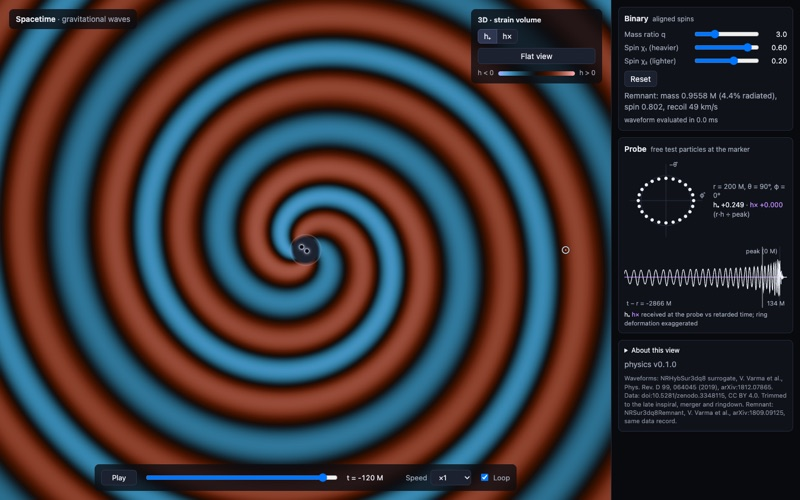
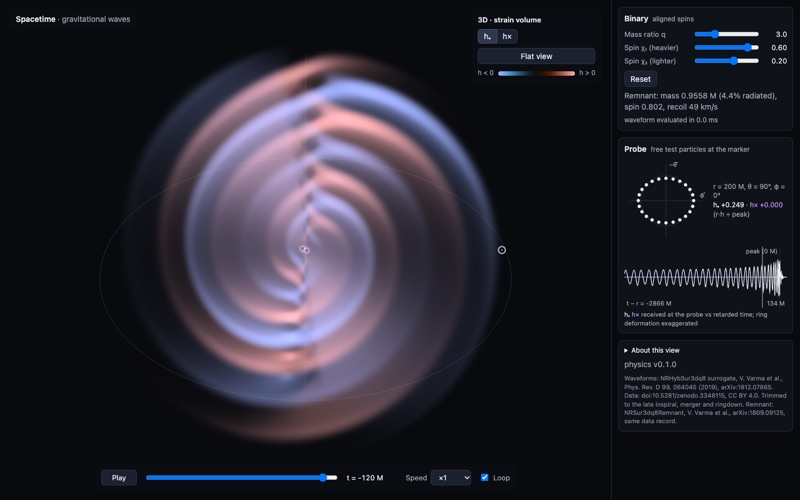
Lensing starts at 40 M (was 20 M); README 3D screenshot fixed
- Default camera distance 40 M, also used by double-click reset. The
  shadow, Einstein ring and more of the sky fit in the opening view.
- The README's 3D screenshot had been captured before the camera finished
  animating into the 3D view; retaken. The lensing screenshot now shows the
  default view.

Lensing self-test passes (3.3e-5 rad).

diff --git a/web/src/lensing/main.ts b/web/src/lensing/main.ts
@@ -9,7 +9,7 @@ import { runLensBenchmark, runLensSelfTest } from "./selftest";
 
 const R_MIN = 3.5; // M; the camera must stay outside the photon sphere (r = 3)
 const R_MAX = 300;
-const R_DEFAULT = 20;
+const R_DEFAULT = 40;
 const DEFAULT_DIR = new THREE.Vector3(0, -20, 3).normalize();
 const B_CRIT = 3 * Math.sqrt(3);
 const $ = <T extends HTMLElement>(id: string) => document.getElementById(id) as T;

diff --git a/docs/development.md b/docs/development.md
@@ -50,7 +50,7 @@ Gravitational waves (`/bbh/`):
 
 Black hole lensing (`/lensing/`):
 
-- `?r=20` (distance, 3.5–300 M), `?fov=60` (degrees)
+- `?r=40` (distance, 3.5–300 M; default 40), `?fov=60` (degrees; default 60)
 - `?selftest`: GPU escape directions vs the Rust reference
 - `?lensbench`: GPU timing (needs real time)
 
